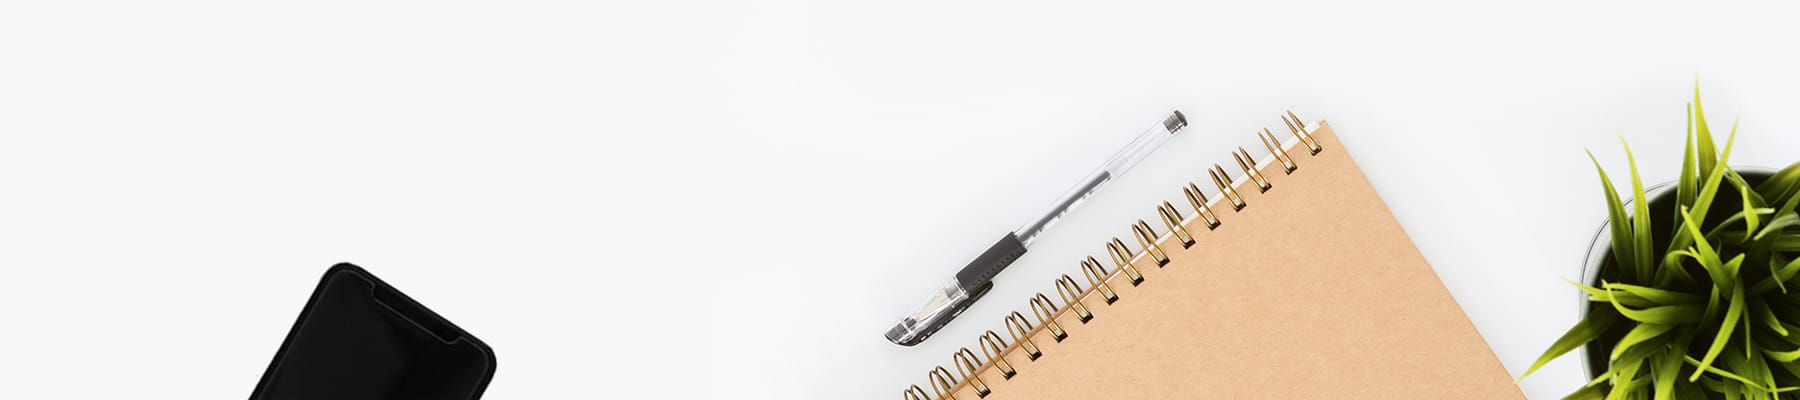
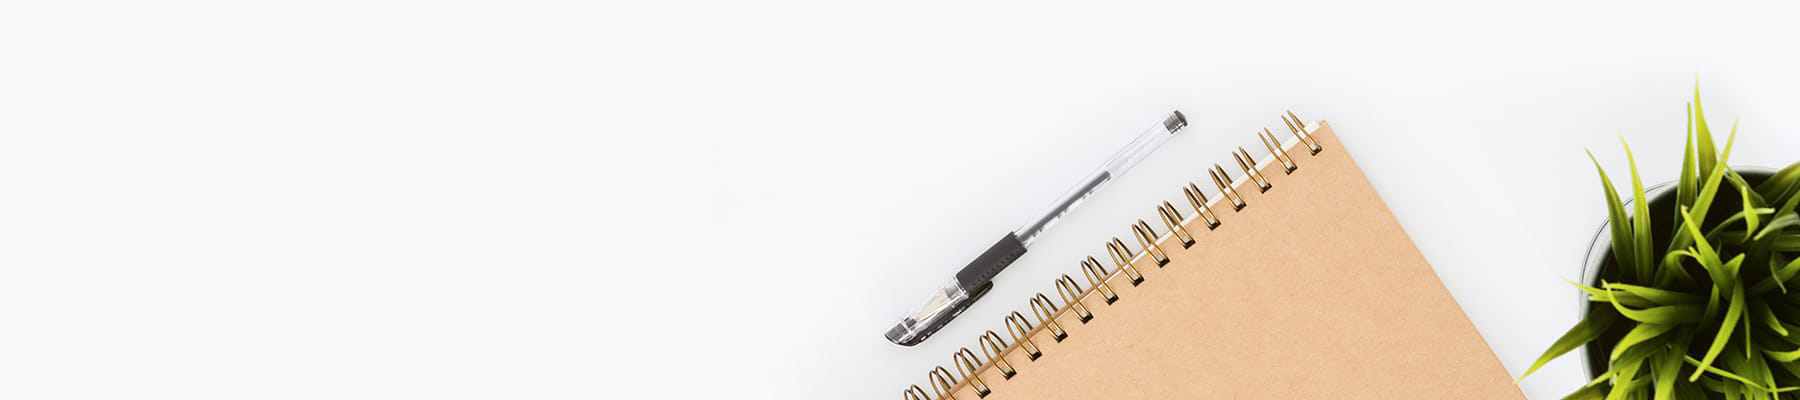
Responsive Navigation
Replaced the old top navigation with a responsive one using react-bootstrap

Changed region(s): [[0.1244, 0.66, 0.28, 1.0]]

diff --git a/src/style/css/Global.css b/src/style/css/Global.css
@@ -120,29 +120,28 @@ sub{
 a.button:hover{
     cursor: pointer;
 }
+.header-button{
+    margin:0px;
+}
 
 /*---------------- NAVIGATION ----------------*/
-.nav-link{
+.navbar{
+    width:100%;
     padding: 0;
-    margin: 0;
+}
+.nav-link{
     font-family: 'cerapro-regular';
     color: #434343;
 }
 .nav-link:hover{
-    padding: 0;
-    margin: 0;
     color: #000000;
     cursor: pointer;
 }
 .navigation{
-    height: 40px;
-    padding-top: 16px;
     display: flex;
     justify-content: flex-end;
-    margin-left:auto;
-    padding-top:20px;
 }
-.navigation ul{
+/* .navigation ul{
     text-decoration: none;
     margin: 0;
     padding: 0;
@@ -158,40 +157,39 @@ a.button:hover{
     margin: 0;
     margin-left: 38px;
     line-height: 0;
-}
+} */
 
 
 /*---------------- HEADER ----------------*/
 
 .header{
     width: 100%;
-    height:400px;
     margin: auto;
     background: #f7f8fa no-repeat;
     background-image: url(../images/header-background.jpg);
-    background-size: 100%;
-    background-position: bottom center;
+    background-size: 90%;
+    background-position: bottom right;
 }
 .header-content{
-    width:1200px;
-    padding-top:30px;
+    max-width:90%;
+    padding-top:16px;
     margin: 0 auto;
     display: flex;
 }
 
 #top-logo{
     display: inline-block;
-    height: 50px;
-    width: 300px;
-    background-size: 265px 39px;
+    height: 28px;
+    width: 180px;
+    background-size: 100%;
     background-repeat: no-repeat;
     background-image: url(../images/logo.png);
 }
 
 #header-title{
-    width: 960px;
-    height: 200px;
+    width: 900px;
     margin:40px auto 0 auto;
+    padding-bottom:60px;
     text-align: left;
 }
 
@@ -332,40 +330,40 @@ a.button:hover{
     font-size: 14px;
 }
 .form-input input::-webkit-input-placeholder {
-    color: #BBBBBB;
+    color: #999999;
 }
 .form-input input:focus::-webkit-input-placeholder {
     color: #E3E3E3;
 }
 /* Firefox < 19 */
 .form-input input:-moz-placeholder {
-    color: #BBBBBB;
+    color: #999999;
 }
 .form-input input:focus:-moz-placeholder {
     color: #E3E3E3;
 }
 /* Firefox > 19 */
 .form-input input::-moz-placeholder {
-    color: #BBBBBB;
+    color: #999999;
 }
 .form-input input:focus::-moz-placeholder {
     color: #E3E3E3;
 }
 /* Internet Explorer 10 */
 .form-input input:-ms-input-placeholder {
-    color: #BBBBBB;
+    color:#999999;
 }
 .form-input input:focus:-ms-input-placeholder {
     color: #E3E3E3;
 }
 .form-input input[type="text"]{
-	color: #BBBBBB;
+	color: #999999;
 	font-family: 'Graphik LCG Regular';
     letter-spacing: 0.0400em;
 }
 .form-input input[type="text"]:focus{
 	outline: none;
-	color: #686868;
+	color: #353535;
 }
 
 
@@ -452,12 +450,7 @@ input[type=radio]:checked ~ label{
 
 /*---------------- MEDIA QUERIES ----------------*/
 
-/* Hack to remove Safari's extra padding. */
-@media screen and (-webkit-min-device-pixel-ratio:0) {
-    .placeholder input, .placeholder textarea { padding: 4px; }
-}
-
-/* RETINA STYLES */
+/* RETINA QUIRIES */
 @media 
 (-webkit-min-device-pixel-ratio: 2), 
 (min-resolution: 192dpi) { 
@@ -475,4 +468,42 @@ input[type=radio]:checked ~ label{
     }
 }
 
-/* RESIZING */
+/* RESIZING MEDIA QUIRIES */
+
+/* Extra small devices (phones, 600px and down) */
+@media only screen and (max-width: 600px) {
+    #coffee-cup{
+        display: none;
+    }
+    #paper-clips{
+        display: none;
+    }
+} 
+
+/* Small devices (portrait tablets and large phones, 600px and up) */
+@media only screen and (min-width: 600px) {
+    
+} 
+
+/* Medium devices (landscape tablets, 768px and up) */
+@media only screen and (min-width: 768px) {
+    #coffee-cup{
+        display: block;
+    }
+} 
+
+/* Large devices (laptops/desktops, 992px and up) */
+@media only screen and (min-width: 992px) {
+    
+} 
+
+/* Extra large devices (large laptops and desktops, 1200px and up) */
+@media only screen and (min-width: 1200px) {
+    
+}
+
+
+/* Hack to remove Safari's extra padding. */
+@media screen and (-webkit-min-device-pixel-ratio:0) {
+    .placeholder input, .placeholder textarea { padding: 4px; }
+}

diff --git a/src/components/Header.js b/src/components/Header.js
@@ -1,5 +1,6 @@
 import React, { Component } from 'react';
 import { Link } from 'react-router-dom';
+import { Navbar, Nav } from 'react-bootstrap';
 
 import '../style/css/Global.css';
 
@@ -9,19 +10,21 @@ class Header extends Component {
     return (
       <div className='header'>
       <div className="header-content">
-        <div id='top-logo'></div>
-        <div className='navigation'>
-            <ul>
-              <li><Link className='nav-link' to= '/'>Student Debt Calculator</Link></li>
-              <li><Link className='nav-link' to="/compare">Compare Degrees</Link></li>
-              <li><Link className='nav-link' to="/learn">Learn</Link></li>
-              <li><Link className='nav-link' to="/about">About</Link></li>
-            </ul>
-        </div>
+        <Navbar expand="md">
+        <Navbar.Brand href="#home"><div id='top-logo'></div></Navbar.Brand>
+        <Navbar.Toggle aria-controls="basic-navbar-nav" />
+        <Navbar.Collapse id="responsive-navbar-nav" className='justify-content-end'>
+          <Nav>
+            <Nav.Link><Link className='nav-link' to= '/'>Student Debt Calculator</Link></Nav.Link>
+            <Nav.Link><Link className='nav-link' to="/learn">Learn</Link></Nav.Link>
+            <Nav.Link><Link className='nav-link' to="/about">About</Link></Nav.Link>
+          </Nav>
+        </Navbar.Collapse>
+      </Navbar>
       </div>
       <div id="header-title">
         <h1>Learn how your degree choice <br/>affects your financial future.</h1>
-        <a href="#calculator"><div className='button'>Get Started!</div></a>
+        <a href="#calculator"><div className='button header-button'>Get Started!</div></a>
       </div>
       </div>
     );
